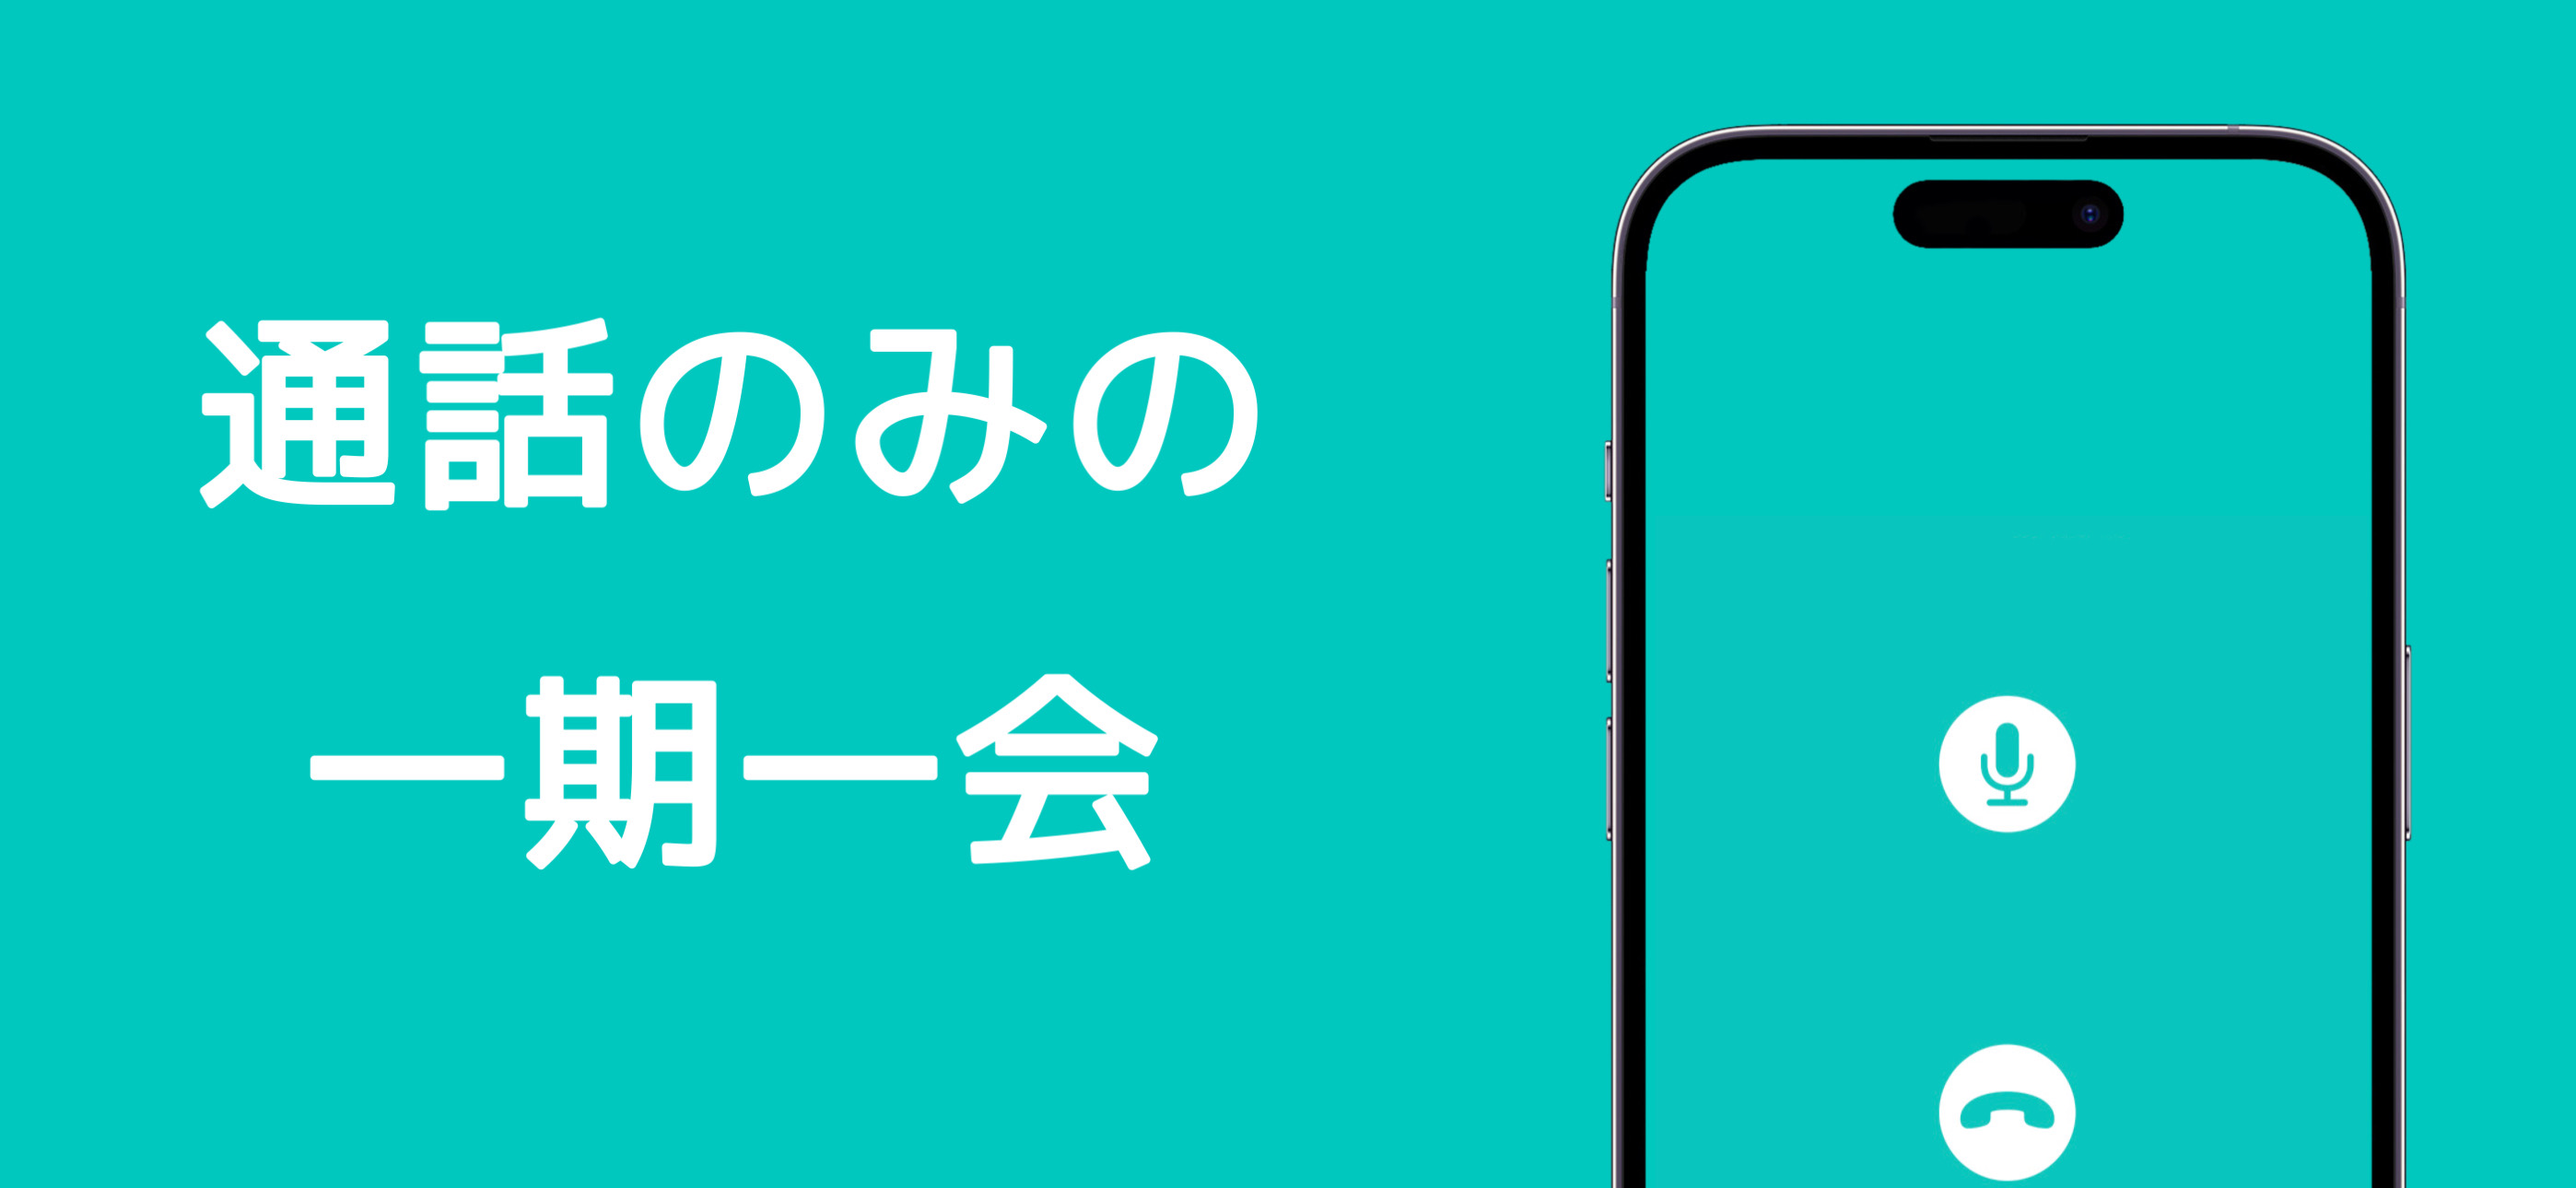
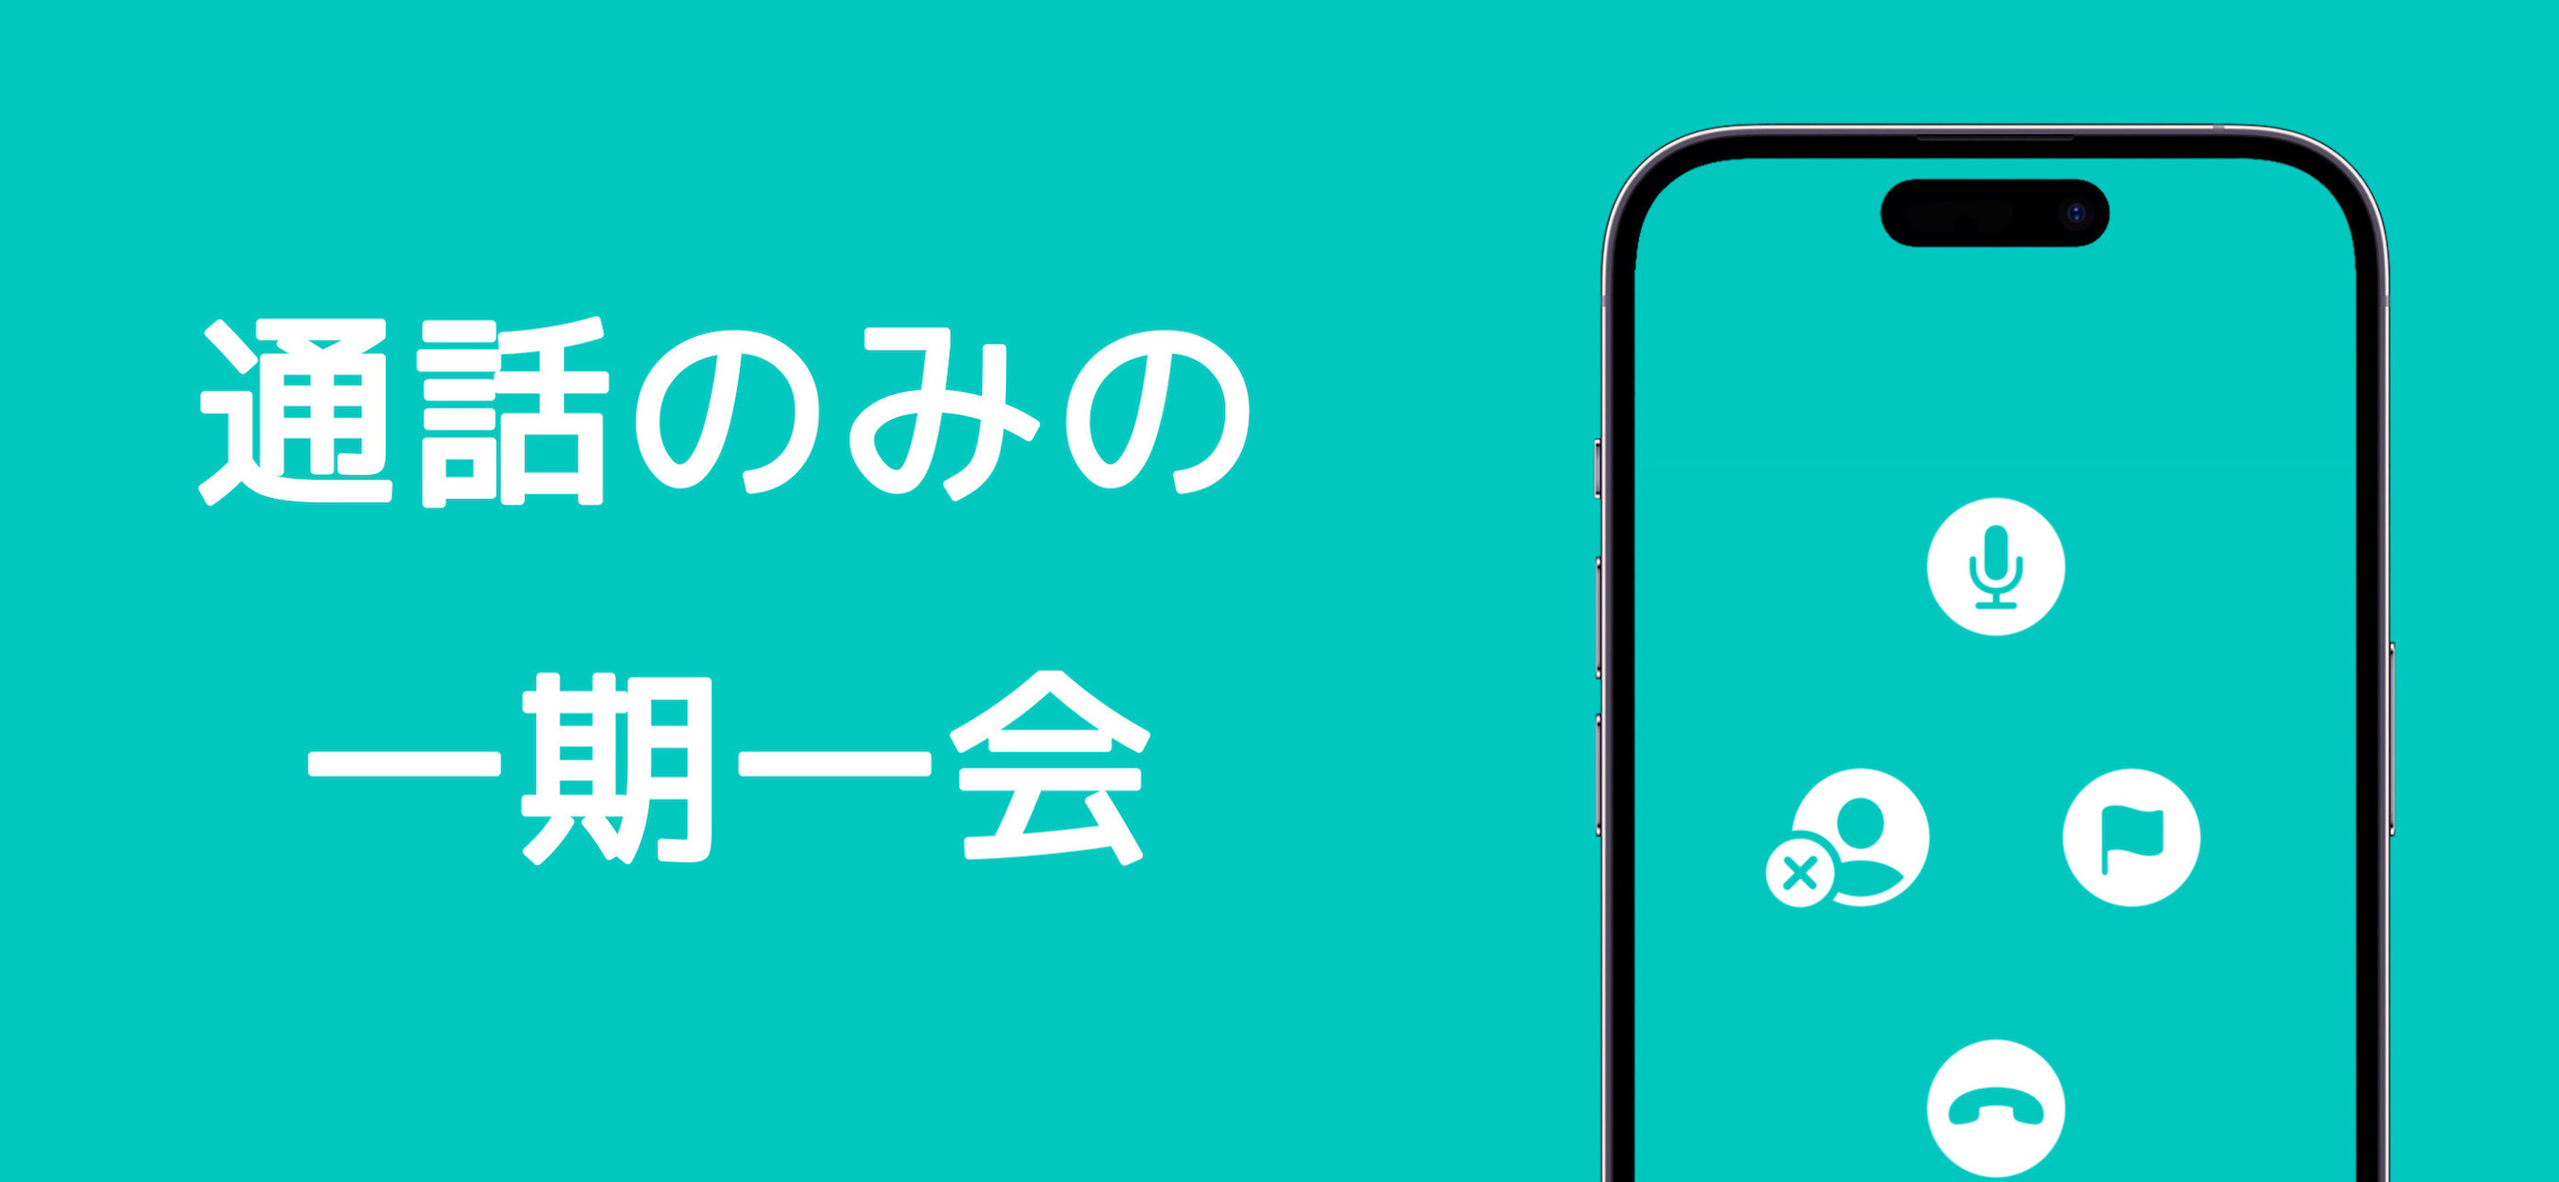
image changed

Changed region(s): [[0.6811, 0.405, 0.8668, 0.7788], [0.743, 0.9346, 0.8049, 0.9969]]

diff --git a/index.html b/index.html
@@ -71,7 +71,9 @@
                             - 寂しい時、誰かに相談したい時、ただ誰かとおしゃべりしたい時、あなたの心の隙間に入れればなと思います。<br>
                             - ランダムにマッチした相手と通話できます。<br><br>
                             【機能】<br>
-                            - ミュート：ボタンひとつでミュートon/off切り替えられます。<br>
+                            - ブロック機能 - 嫌な相手をブロックすることができます。ブロックした相手とはマッチングすることがありません。<br>
+                            - ミュート - ボタンひとつでミュートon/off切り替えられます。<br>
+                            - 通報機能 - デベロッパーに通報できます。<br>
                     </div>
                 </div>
             </div>
